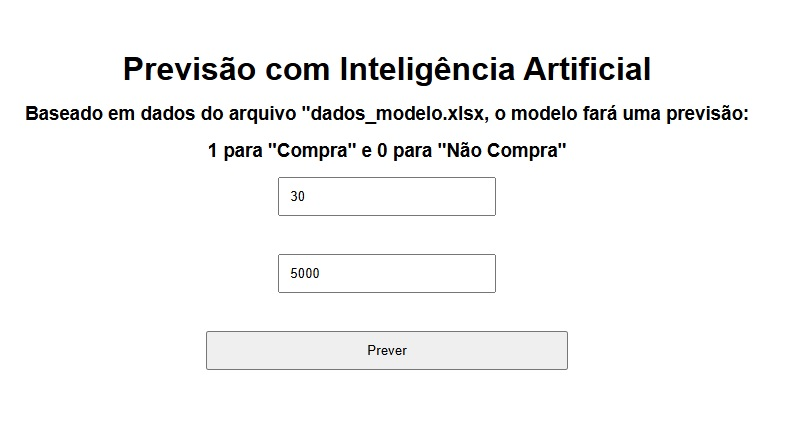
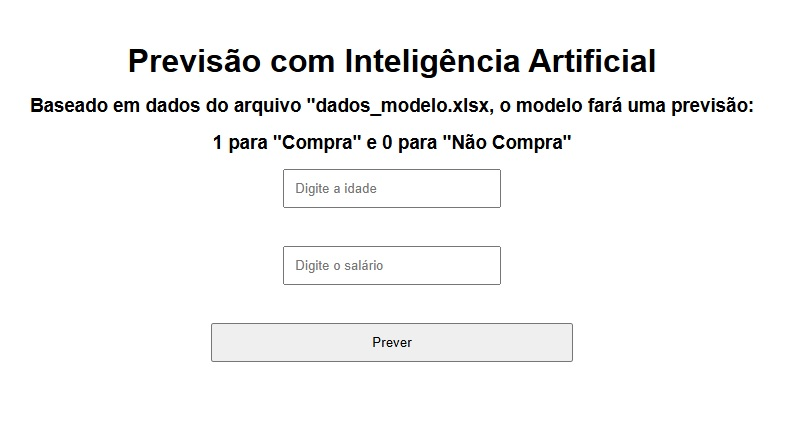
Atualização da página inicial e do screenshot

diff --git a/index.html b/index.html
@@ -43,12 +43,12 @@
         <h3>1 para "Compra" e 0 para "Não Compra"</h3>
 
         <!-- Campo de idade -->
-        <input type="number" id="idade" placeholder="Digite sua idade">
+        <input type="number" id="idade" placeholder="Digite a idade">
 
         <br><br>
 
         <!-- Campo de salário -->
-        <input type="number" id="salario" placeholder="Digite seu salário">
+        <input type="number" id="salario" placeholder="Digite o salário">
 
         <br><br>
 
